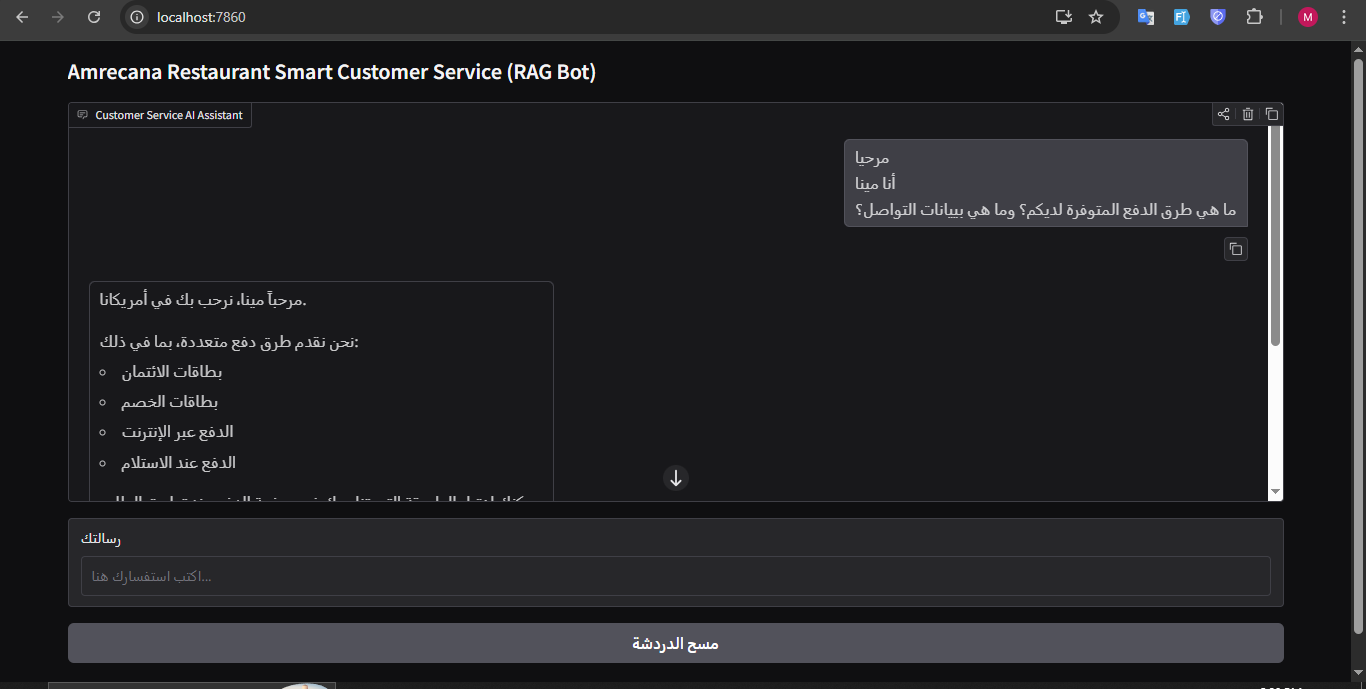
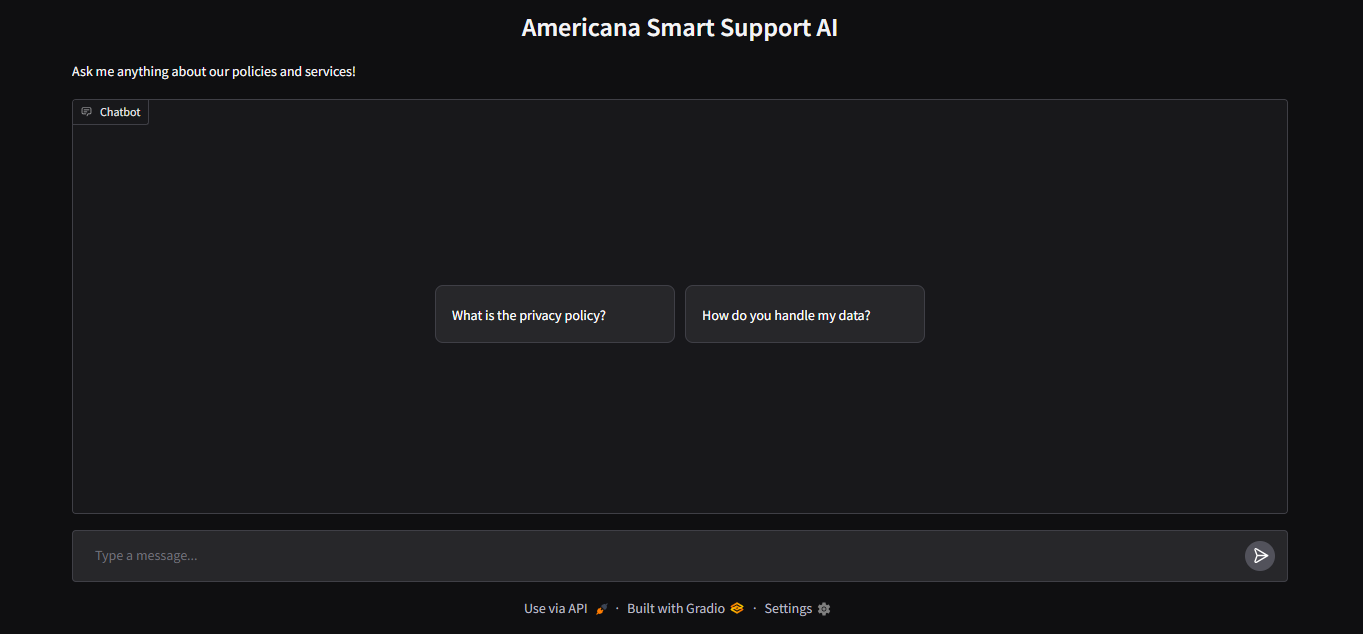
improve model replies

diff --git a/app.py b/app.py
@@ -9,145 +9,173 @@ from langchain_text_splitters import RecursiveCharacterTextSplitter
 from langchain_huggingface import HuggingFaceEmbeddings
 from langchain_chroma import Chroma
 from langchain_groq import ChatGroq
-from langchain_core.prompts import ChatPromptTemplate
+from langchain_core.prompts import ChatPromptTemplate, MessagesPlaceholder
 from langchain_core.runnables import RunnablePassthrough
+from langchain_core.output_parsers import StrOutputParser
+from langchain_core.messages import HumanMessage, AIMessage
 
 import gradio as gr
 
-# Load environment variables from .env file
+# Load environment variables
 load_dotenv()
 
 # --- Configuration --- #
-
 groq_api_key = os.environ.get("GROQ_API_KEY")
-if not groq_api_key:
-    raise ValueError("GROQ_API_KEY not found. Please set it as an environment variable or in a .env file.")
-
 PDF_PATH = "/app/data/Privacy-Policy-Ar.pdf"
 CHROMA_DIR = "/app/chroma_customer_support"
 
-# --- Document Loading and Splitting --- #
-
+# --- Document Loading and Processing --- #
 if not os.path.exists(PDF_PATH):
     print(f"Error: PDF file not found at {PDF_PATH}")
     exit(1)
 
-print(f"Loading PDF from: {PDF_PATH}")
 loader = PyPDFLoader(PDF_PATH)
 docs = loader.load()
-
-splitter = RecursiveCharacterTextSplitter(chunk_size=800, chunk_overlap=150)
+splitter = RecursiveCharacterTextSplitter(chunk_size=600, chunk_overlap=120)
 chunks = splitter.split_documents(docs)
-print(f"Split PDF into {len(chunks)} chunks.")
 
-# --- Embeddings --- #
+# --- Vector Store Setup --- #
+if not groq_api_key:
+    raise ValueError("GROQ_API_KEY not found. Please set it as an environment variable or in a .env file.")
 
 print("Initializing embeddings model...")
 embeddings = HuggingFaceEmbeddings(model_name="intfloat/multilingual-e5-small")
 
-# --- Vector Store (ChromaDB) --- #
-# Always wipe and rebuild so the AI always uses the latest PDF
-
-# Clear contents inside the mounted volume directory (cannot delete the root mount itself)
+# Clear contents of Chroma directory safely (for Docker mounts)
 if os.path.exists(CHROMA_DIR):
     print(f"Clearing old Chroma DB contents at {CHROMA_DIR}...")
-    # Remove sqlite file
-    for f in glob.glob(os.path.join(CHROMA_DIR, "*.sqlite3")):
-        os.remove(f)
-    # Remove data subdirectories
     for item in os.listdir(CHROMA_DIR):
         item_path = os.path.join(CHROMA_DIR, item)
-        if os.path.isdir(item_path):
-            shutil.rmtree(item_path)
-    print("Old Chroma DB cleared.")
+        try:
+            if os.path.isfile(item_path) or os.path.islink(item_path):
+                os.unlink(item_path)
+            elif os.path.isdir(item_path):
+                shutil.rmtree(item_path)
+        except Exception as e:
+            print(f"Failed to delete {item_path}. Reason: {e}")
 
+print("Building Chroma DB from PDF chunks...")
 os.makedirs(CHROMA_DIR, exist_ok=True)
-
-print("Building Chroma DB from PDF...")
 vectordb = Chroma.from_documents(
     documents=chunks,
     embedding=embeddings,
     persist_directory=CHROMA_DIR
 )
-print(f"Chroma DB built with {vectordb._collection.count()} documents.")
+print("Chroma DB built successfully.")
 
-# Set up the retriever
+print("Initializing retriever...")
 retriever = vectordb.as_retriever(
     search_type="mmr",
-    search_kwargs={"k": 6, "fetch_k": 20}
+    search_kwargs={"k": 5, "fetch_k": 20}
 )
-print("Retriever initialized.")
+print("Retriever ready.")
 
-# --- Language Model (LLM) Setup --- #
-
-def format_docs(docs):
-    return "\n\n".join(d.page_content for d in docs)
-
-print("Initializing ChatGroq LLM...")
+# --- LLM Setup --- #
 llm = ChatGroq(
-    temperature=0.2,
+    temperature=0.1, # Lower temperature for higher accuracy
     model_name="llama-3.1-8b-instant",
     groq_api_key=groq_api_key,
 )
 
-# System Prompt
-system_prompt = """
-You are a restaurant customer service assistant.
-Use only the information provided in the context below.
-If the information is missing, state that you do not know and suggest contacting human support.
-Language Policy: Automatically detect and match the user's language (e.g., Arabic, English, or any other language used).
-Keep responses short, clear, and professional.
-{context}
-"""
+# --- Prompts Engineering --- #
 
-prompt = ChatPromptTemplate.from_messages([
-    ("system", system_prompt),
-    ("human", "{question}")
+# 1. Contextualize Question Prompt
+# This makes the AI smart enough to understand pronouns like "it", "they", or "him" based on history.
+contextualize_q_system_prompt = (
+    "Given a chat history and the latest user question "
+    "which might reference context in the chat history, "
+    "formulate a standalone question which can be understood "
+    "without the chat history. Do NOT answer the question, "
+    "just reformulate it if needed and otherwise return it as is."
+)
+
+contextualize_q_prompt = ChatPromptTemplate.from_messages([
+    ("system", contextualize_q_system_prompt),
+    MessagesPlaceholder(variable_name="chat_history"),
+    ("human", "{question}"),
 ])
 
-# RAG Chain
-rag_chain = (
-    {"context": retriever | format_docs, "question": RunnablePassthrough()}
-    | prompt
-    | llm
+contextualize_q_chain = contextualize_q_prompt | llm | StrOutputParser()
+
+# 2. Main QA Prompt
+system_prompt = (
+    "You are a highly intelligent customer service assistant for Americana Restaurant."
+    "\n\n"
+    "GUIDELINES:"
+    "1. Use the following pieces of retrieved context to answer the question."
+    "2. If the answer is not in the context, politely state that you don't have this information "
+    "and suggest contacting Americana customer support at 12345."
+    "3. Language: Always respond in the SAME language used by the user (Arabic or English)."
+    "4. Tone: Professional, friendly, and concise. Use emojis where appropriate."
+    "\n\n"
+    "CONTEXT:"
+    "{context}"
 )
-print("RAG chain assembled successfully.")
+
+qa_prompt = ChatPromptTemplate.from_messages([
+    ("system", system_prompt),
+    MessagesPlaceholder(variable_name="chat_history"),
+    ("human", "{question}"),
+])
+
+# --- Core Logic --- #
+
+def format_docs(docs):
+    return "\n\n".join(d.page_content for d in docs)
+
+def get_response(user_input, chat_history):
+    # Step 1: Create a standalone question
+    history_langchain = []
+    for entry in chat_history:
+        if isinstance(entry, dict):
+            # Gradio 5.x / Message format
+            role = entry.get("role")
+            content = entry.get("content")
+            if role == "user":
+                history_langchain.append(HumanMessage(content=content))
+            else:
+                history_langchain.append(AIMessage(content=content))
+        elif isinstance(entry, (list, tuple)):
+            # Gradio 3.x/4.x / Tuple format
+            if len(entry) == 2:
+                human, ai = entry
+                history_langchain.append(HumanMessage(content=human))
+                history_langchain.append(AIMessage(content=ai))
+
+    if history_langchain:
+        standalone_question = contextualize_q_chain.invoke({
+            "chat_history": history_langchain,
+            "question": user_input
+        })
+    else:
+        standalone_question = user_input
+
+    # Step 2: Retrieve relevant documents
+    docs = retriever.invoke(standalone_question)
+    formatted_context = format_docs(docs)
+
+    # Step 3: Generate final answer
+    full_chain = qa_prompt | llm
+    response = full_chain.invoke({
+        "context": formatted_context,
+        "question": standalone_question,
+        "chat_history": history_langchain
+    })
+    
+    return response.content
 
 # --- Gradio Interface --- #
 
-def respond(message, chat_history):
-    if not message or not message.strip():
-        return chat_history, ""
+def chat_wrapper(message, history):
+    bot_reply = get_response(message, history)
+    yield bot_reply # Using yield for better integration with Gradio's chat flow
 
-    try:
-        response = rag_chain.invoke(message)
-        bot_reply = response.content
-    except Exception as e:
-        bot_reply = f"Sorry, an error occurred: {str(e)}"
-
-    if chat_history is None:
-        chat_history = []
-
-    chat_history.append({"role": "user", "content": message})
-    chat_history.append({"role": "assistant", "content": bot_reply})
-
-    return chat_history, ""
-
-print("Launching Gradio interface...")
-with gr.Blocks() as demo:
-    gr.Markdown("## Amrecana Restaurant Smart Customer Service (RAG Bot)")
-
-    chatbot = gr.Chatbot(label="Customer Service AI Assistant")
-
-    msg = gr.Textbox(
-        placeholder="اكتب استفسارك هنا...",
-        label="رسالتك"
-    )
-
-    clear = gr.Button("مسح الدردشة")
-
-    msg.submit(respond, [msg, chatbot], [chatbot, msg])
-    clear.click(lambda: ([], ""), None, [chatbot, msg])
+demo = gr.ChatInterface(
+    fn=chat_wrapper,
+    title="Americana Smart Support AI",
+    description="Ask me anything about our policies and services!",
+    examples=["What is the privacy policy?", "How do you handle my data?"]
+)
 
 if __name__ == "__main__":
     demo.launch(server_name="0.0.0.0", server_port=7860)
